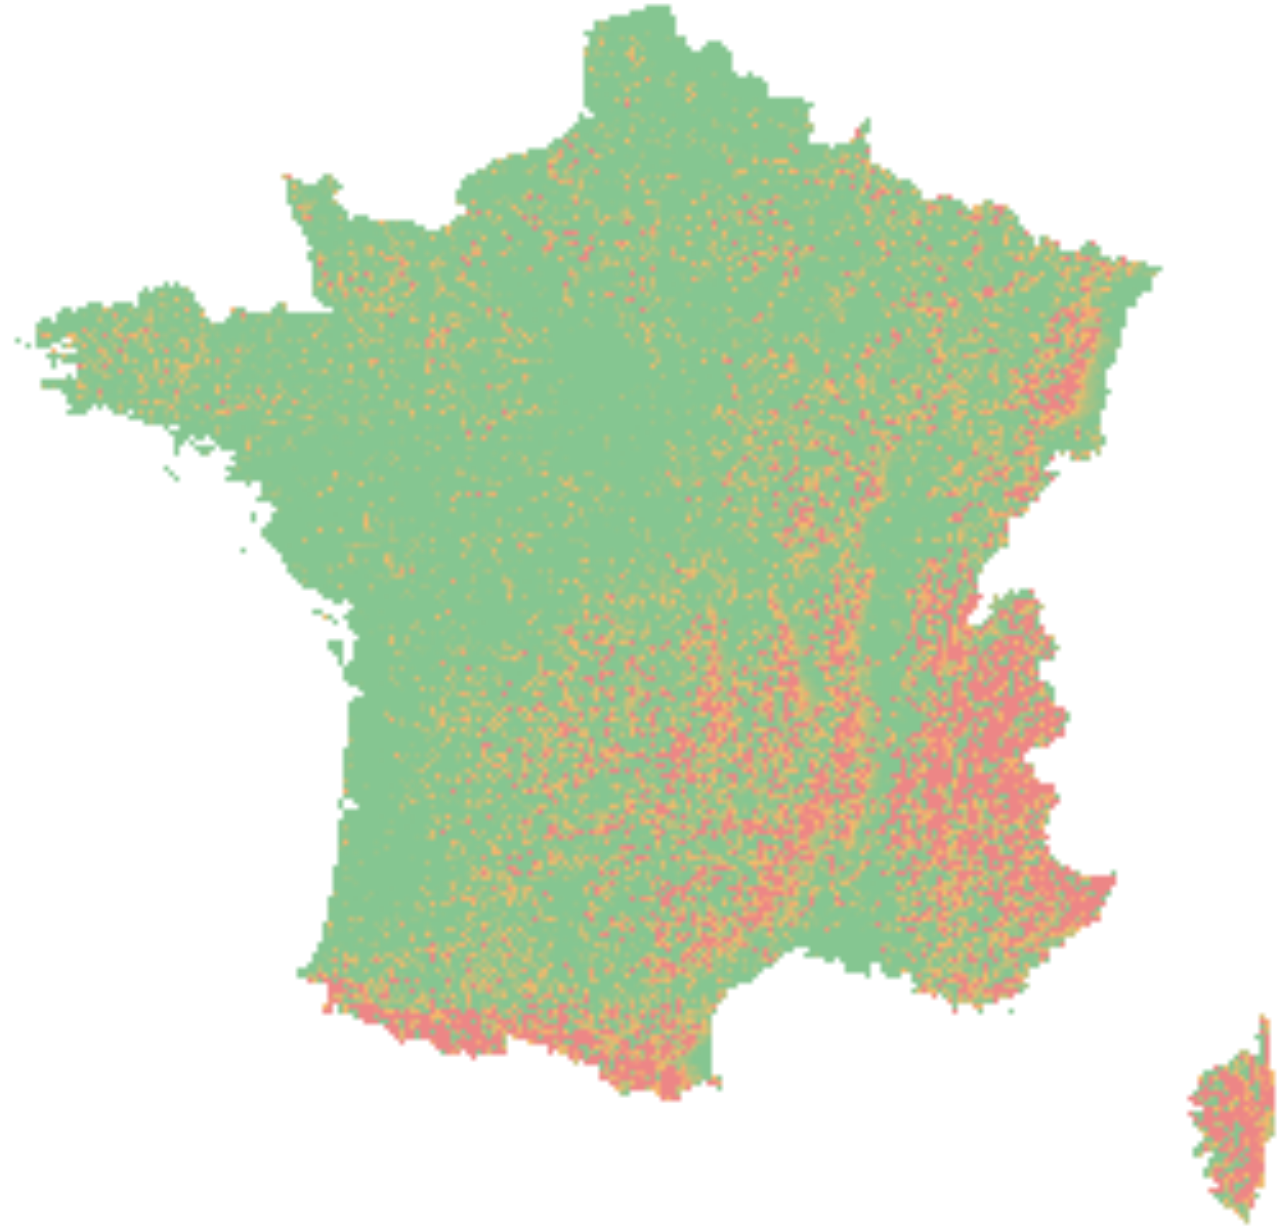
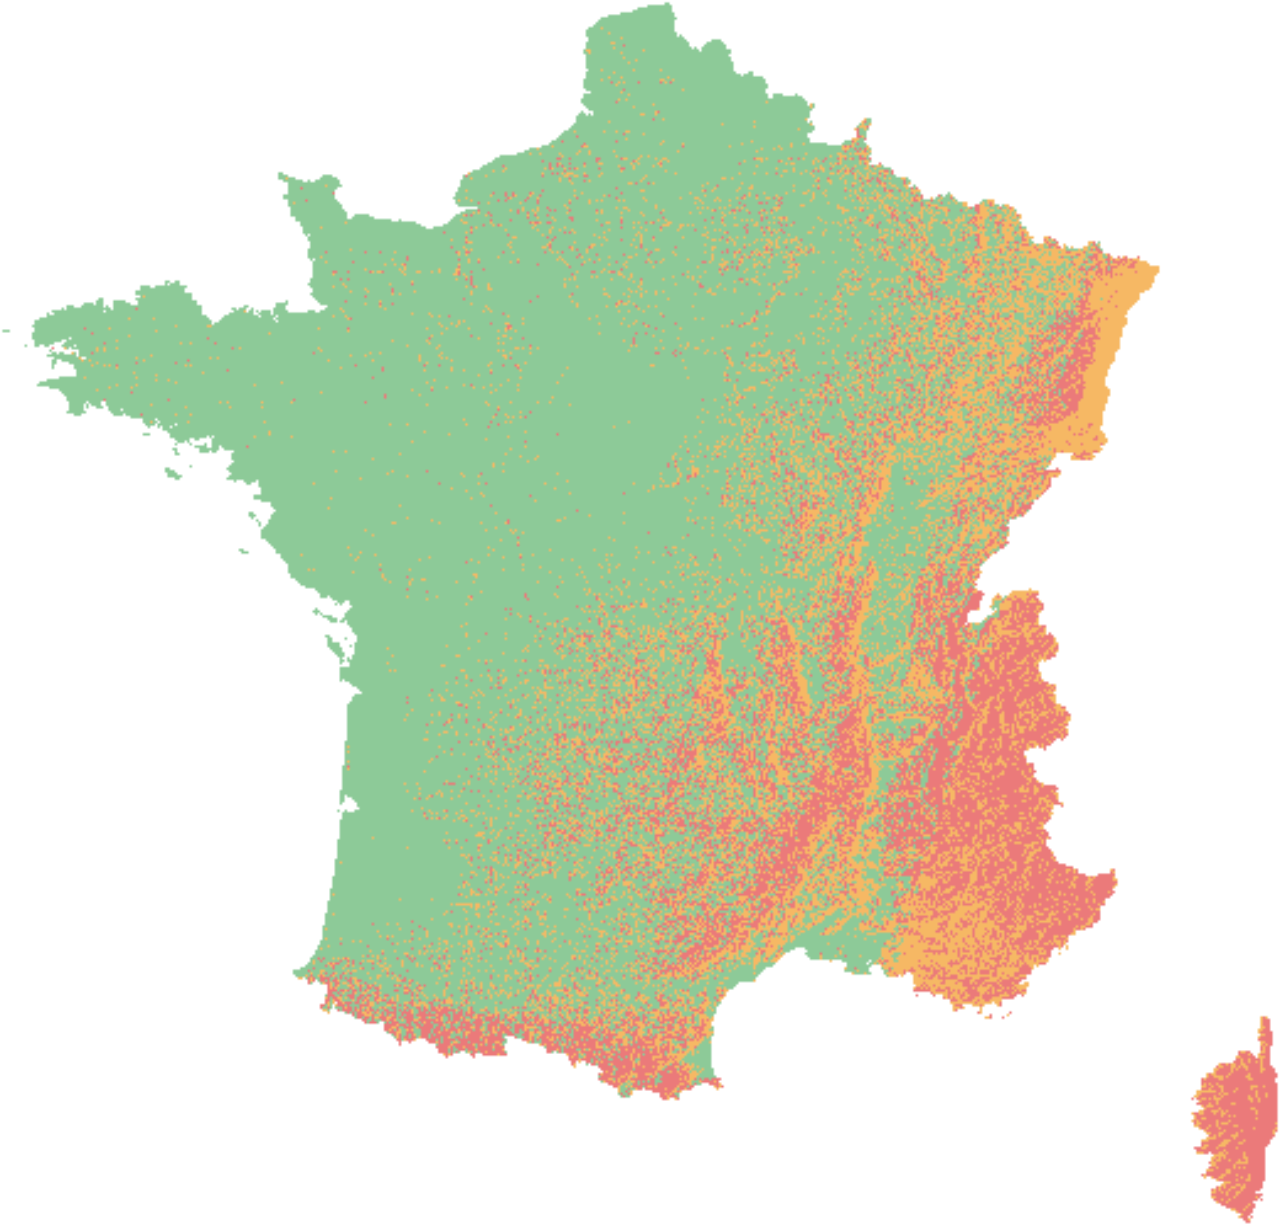
Align national relief layer with point analysis

diff --git a/src/App.jsx b/src/App.jsx
@@ -385,10 +385,10 @@ export function App() {
           <div className="legend">
             <div className="block-title"><Mountains size={18} /><span>Visibilité du relief · 20:19</span></div>
             <label className="layer-toggle"><input type="checkbox" checked={showVisibility} onChange={e=>setShowVisibility(e.target.checked)} /><span>Afficher la surface favorable / défavorable</span></label>
-            <div><i className="green" /><span><strong>Dégagé</strong> Soleil au-dessus du relief</span></div>
-            <div><i className="orange" /><span><strong>Limite</strong> Faible marge à l’horizon</span></div>
-            <div><i className="red" /><span><strong>Masqué</strong> Relief devant le Soleil</span></div>
-            <small>Cette vue nationale est une lecture généralisée du relief. Au clic, le relief et la météo sont recalculés précisément pour le lieu choisi.</small>
+            <div><i className="green" /><span><strong>Dégagé</strong> Marge de relief d’au moins 4°</span></div>
+            <div><i className="orange" /><span><strong>Limite</strong> Marge comprise entre 0° et 4°</span></div>
+            <div><i className="red" /><span><strong>Masqué</strong> Soleil sous le relief à 20:19</span></div>
+            <small>Couche de relief uniquement, calculée avec le Soleil local et un horizon de 10 km. Le clic recalcule le profil et ajoute la météo au score.</small>
           </div>
         </aside>
 
@@ -405,7 +405,7 @@ export function App() {
           </MapContainer>
           <form onSubmit={onSearch} className="mobile-search"><MagnifyingGlass size={19}/><input value={query} onChange={e=>setQuery(e.target.value)} placeholder="Rechercher un lieu" aria-label="Rechercher un lieu"/><button aria-label="Lancer la recherche"><ArrowRight size={18}/></button></form>
           <div className="map-instruction"><MapPin size={18} weight="fill" /><span><strong>Touchez la carte</strong> pour analyser ce lieu</span></div>
-          <div className="surface-chip"><Mountains size={18}/><span>Couleur initiale = <strong>relief uniquement</strong></span></div>
+          <div className="surface-chip"><Mountains size={18}/><span><strong>Relief à 20:19</strong> · score complet au clic</span></div>
           <div className="direction-chip"><Compass size={20} /><span><strong>{Math.round(solar.azimuth)}°</strong> · ouest-nord-ouest</span><b>{time}</b></div>
         </section>
 

diff --git a/scripts/generate_france_visibility_layer.py b/scripts/generate_france_visibility_layer.py
@@ -10,6 +10,7 @@ import json
 import math
 import os
 import urllib.request
+from datetime import datetime, timezone
 from pathlib import Path
 
 import numpy as np
@@ -19,11 +20,10 @@ ROOT = Path(__file__).resolve().parents[1]
 BOUNDARY = ROOT / "public/data/france-metropolitaine.geojson"
 OUT_IMAGE = ROOT / "public/data/visibility-france-2026-08-12.png"
 OUT_META = ROOT / "public/data/visibility-france-2026-08-12.json"
-CACHE = ROOT / ".cache/terrarium-z8"
-ZOOM = 8
-BEARING = 284.0
-SUN_ALTITUDE = 7.9
-GRID_WIDTH = 250
+CACHE = ROOT / ".cache/terrarium-z10"
+ZOOM = 10
+GRID_WIDTH = 520
+OBSERVATION_UTC = datetime(2026, 8, 12, 18, 19, tzinfo=timezone.utc)
 
 
 def lonlat_to_pixel(lon: float, lat: float) -> tuple[float, float]:
@@ -67,6 +67,25 @@ def destination(lat: float, lon: float, distance_km: float, bearing: float) -> t
     return math.degrees(p2), math.degrees(l2)
 
 
+def solar_position(lat: float, lon: float) -> tuple[float, float]:
+    """Altitude et azimut solaire (degrés, azimut depuis le nord)."""
+    unix = OBSERVATION_UTC.timestamp()
+    jd = unix / 86400.0 + 2440587.5
+    n = jd - 2451545.0
+    mean_longitude = math.radians((280.460 + 0.9856474 * n) % 360)
+    mean_anomaly = math.radians((357.528 + 0.9856003 * n) % 360)
+    ecliptic_longitude = mean_longitude + math.radians(1.915) * math.sin(mean_anomaly) + math.radians(0.020) * math.sin(2 * mean_anomaly)
+    obliquity = math.radians(23.439 - 0.0000004 * n)
+    right_ascension = math.atan2(math.cos(obliquity) * math.sin(ecliptic_longitude), math.cos(ecliptic_longitude))
+    declination = math.asin(math.sin(obliquity) * math.sin(ecliptic_longitude))
+    gmst = math.radians((280.46061837 + 360.98564736629 * n) % 360)
+    hour_angle = (gmst + math.radians(lon) - right_ascension + math.pi) % (2 * math.pi) - math.pi
+    latitude = math.radians(lat)
+    altitude = math.asin(math.sin(latitude) * math.sin(declination) + math.cos(latitude) * math.cos(declination) * math.cos(hour_angle))
+    azimuth = math.atan2(-math.sin(hour_angle), math.tan(declination) * math.cos(latitude) - math.sin(latitude) * math.cos(hour_angle))
+    return math.degrees(altitude), math.degrees(azimuth) % 360
+
+
 def points_in_polygon(xs: np.ndarray, ys: np.ndarray, ring: np.ndarray) -> np.ndarray:
     inside = np.zeros(xs.shape, dtype=bool)
     xj, yj = ring[-1]
@@ -77,15 +96,12 @@ def points_in_polygon(xs: np.ndarray, ys: np.ndarray, ring: np.ndarray) -> np.nd
     return inside
 
 
-def colour(score: float) -> tuple[int, int, int, int]:
-    red = np.array([224, 49, 49], dtype=float)
-    orange = np.array([240, 140, 0], dtype=float)
-    green = np.array([47, 158, 68], dtype=float)
-    if score <= 50:
-        rgb = red + (orange - red) * (score / 50.0)
-    else:
-        rgb = orange + (green - orange) * ((score - 50.0) / 50.0)
-    return int(rgb[0]), int(rgb[1]), int(rgb[2]), 150
+def colour(clearance: float) -> tuple[int, int, int, int]:
+    if clearance <= 0:
+        return 224, 49, 49, 165
+    if clearance < 4:
+        return 240, 140, 0, 155
+    return 47, 158, 68, 140
 
 
 def main() -> None:
@@ -105,24 +121,24 @@ def main() -> None:
     for ring in rings:
         mask |= points_in_polygon(xx, yy, ring)
     rgba = np.zeros((height, GRID_WIDTH, 4), dtype=np.uint8)
-    distances = np.geomspace(0.25, 30.0, 22)
+    distances = np.asarray([0.05, 0.1, 0.2, 0.35, 0.5, 0.75, 1, 1.5, 2.5, 4, 7, 10], dtype=float)
     memory: dict = {}
 
     indices = np.argwhere(mask)
     for count, (row, col) in enumerate(indices, start=1):
         lat, lon = float(yy[row, col]), float(xx[row, col])
+        sun_altitude, bearing = solar_position(lat, lon)
         base = elevation(lon, lat, memory) + 1.7
         max_angle = -90.0
         for distance in distances:
-            sample_lat, sample_lon = destination(lat, lon, float(distance), BEARING)
+            sample_lat, sample_lon = destination(lat, lon, float(distance), bearing)
             sample_elevation = elevation(sample_lon, sample_lat, memory)
             metres = distance * 1000.0
             curvature = metres * metres / (2 * 6371000.0)
             angle = math.degrees(math.atan2(sample_elevation - base - curvature, metres))
             max_angle = max(max_angle, angle)
-        clearance = SUN_ALTITUDE - max(0.0, max_angle)
-        score = max(0.0, min(100.0, (clearance + 0.5) / 7.5 * 100.0))
-        rgba[row, col] = colour(score)
+        clearance = sun_altitude - max(0.0, max_angle)
+        rgba[row, col] = colour(clearance)
         if count % 5000 == 0:
             print(f"{count}/{len(indices)} points")
 
@@ -131,12 +147,13 @@ def main() -> None:
     large.save(OUT_IMAGE, optimize=True)
     meta = {
         "bounds": [[float(south), float(west)], [float(north), float(east)]],
-        "bearing": BEARING,
-        "sunAltitude": SUN_ALTITUDE,
+        "bearing": "calculé localement pour chaque cellule",
+        "sunAltitude": "calculée localement pour chaque cellule",
         "dateTime": "2026-08-12T20:19:00+02:00",
         "source": "Mapzen Terrarium / AWS Open Data",
-        "resolution": "MNT Terrarium généralisé ; grille nationale ~2–4 km",
-        "scope": "Aperçu national du relief uniquement ; analyse plus précise, météo et obstacles recalculés au clic"
+        "resolution": "MNT Terrarium z10 ; grille nationale ~1 km",
+        "scope": "Relief uniquement, horizon 10 km ; Soleil local à 20:19. Météo et obstacles recalculés au clic",
+        "thresholds": {"red": "marge <= 0°", "orange": "0° < marge < 4°", "green": "marge >= 4°"}
     }
     OUT_META.write_text(json.dumps(meta, ensure_ascii=False, indent=2))
     print(f"Écrit: {OUT_IMAGE} ({large.size[0]}×{large.size[1]})")

diff --git a/validation-relief.md b/validation-relief.md
@@ -1,0 +1,35 @@
+# Validation de la couche nationale de relief
+
+Date du contrôle : 9 août 2026.
+
+## Alignement des méthodes
+
+- Date et heure : 12 août 2026 à 20:19, heure de Paris.
+- Soleil : altitude et azimut calculés localement pour chaque cellule.
+- Horizon : mêmes distances d’échantillonnage que l’analyse au clic, jusqu’à 10 km.
+- Seuils : rouge si marge ≤ 0° ; orange si 0° < marge < 4° ; vert si marge ≥ 4°.
+- La couche nationale représente uniquement le relief. La météo est ajoutée dans le score au clic.
+
+## Contrôle du calcul solaire
+
+Comparaison avec SunCalc sur trois points situés dans le nord, le centre et le sud de la France : écart maximal observé d’environ 0,13° sur l’altitude et 0,01° sur l’azimut.
+
+## Contrôle indépendant du relief
+
+Des cellules de chaque couleur ont été recalculées avec l’API d’altitude Open-Meteo utilisée au clic.
+
+- Rouge : 5 cellules testées, 5 masquées au recalcul précis.
+- Vert : 5 cellules testées, 5 dégagées au recalcul précis.
+- Orange : zone volontairement prudente ; 2 cellules sont restées orange et 3 sont devenues rouges avec le modèle plus précis. Aucune n’est devenue verte.
+
+Le contrôle cible le problème signalé : aucune cellule rouge de l’échantillon n’a produit un relief favorable au recalcul précis.
+
+## Contrôle dans l’application publiée
+
+- Zone rouge testée dans les Alpes, 45.67548 N / 6.19629 E : verdict « Défavorable — Soleil masqué », marge -34,7°.
+- Zone verte testée dans le Cotentin, 49.49667 N / -1.75781 E : verdict « Très favorable », marge +10,1°.
+- Console du navigateur : aucune erreur pendant les deux parcours complets.
+
+## Limites restantes
+
+La couche d’ouverture reste une grille nationale d’environ 1 km et ne modélise pas les arbres ni les bâtiments. Le résultat au clic reste la référence locale.
